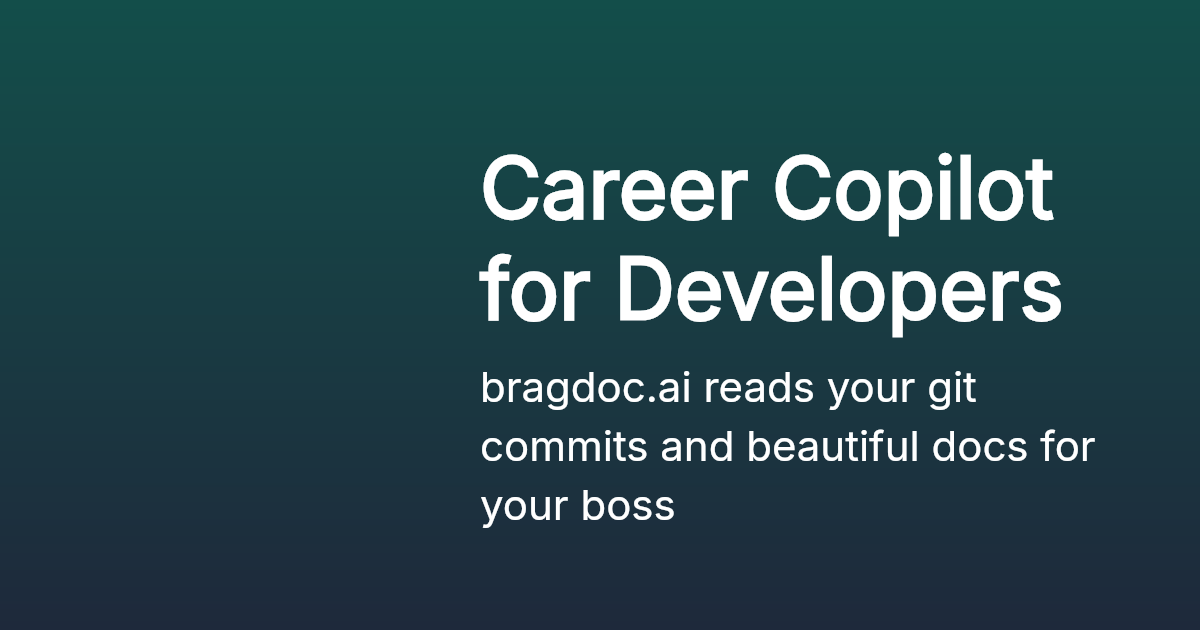
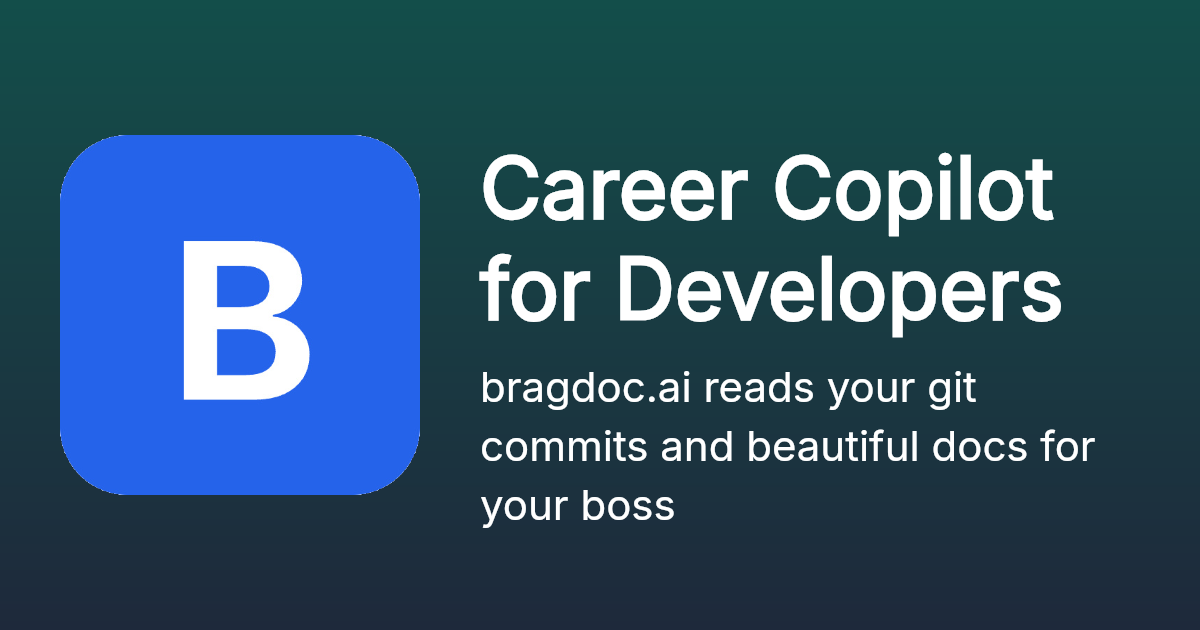
fix: tweaked a couple of examples (#24)

Changed region(s): [[0.0308, 0.2111, 0.37, 0.7841]]

diff --git a/src/components/ThumbnailGenerator.tsx b/src/components/ThumbnailGenerator.tsx
@@ -42,7 +42,7 @@ function getDefaultImageUrl(elementId: string): string | undefined {
     return '/frameit-icon.png'
   }
 
-  // For main-image or other elements, return undefined (user must upload)
+  // For `main` or other elements, return undefined (user must upload)
   return undefined
 }
 
@@ -105,7 +105,7 @@ function getDefaultConfig(): ThumbnailConfig {
     ],
     imageElements: [
       { id: 'logo', url: getDefaultImageUrl('logo'), opacity: 1.0, scale: 100 },
-      { id: 'main-image', url: '/default-photo.jpg', opacity: 1.0, scale: 100 },
+      { id: 'main', url: '/default-photo.jpg', opacity: 1.0, scale: 100 },
     ],
   }
 }

diff --git a/src/lib/constants/layouts.ts b/src/lib/constants/layouts.ts
@@ -137,7 +137,7 @@ export const LAYOUTS: LayoutDefinition[] = [
     elements: [
       // Main photo - fills entire canvas
       {
-        id: 'main-image',
+        id: 'main',
         type: 'image',
         name: 'Main Image',
         position: { x: '50%', y: '50%', anchor: 'center' },
@@ -373,7 +373,7 @@ export const LAYOUTS: LayoutDefinition[] = [
     description: 'Product feature highlight with icon and right-aligned description',
     elements: [
       {
-        id: 'main-image',
+        id: 'main',
         type: 'image',
         position: { x: '20%', y: '50%', anchor: 'center' },
         sizing: { maxWidth: '30%' },

diff --git a/src/lib/example-configs.ts b/src/lib/example-configs.ts
@@ -168,7 +168,7 @@ export const EXAMPLE_CONFIGS: ExampleConfig[] = [
         { id: 'subtitle', content: 'bragdoc.ai reads your git commits and beautiful docs for your boss', color: '#ffffff' },
       ],
       imageElements: [
-        { id: 'icon', url: '/frameit-icon.png', opacity: 1.0, scale: 100 },
+        { id: 'main', url: '/bragdoc-icon.png', opacity: 1.0, scale: 100 },
       ],
     },
   },

diff --git a/test-og-examples.ts b/test-og-examples.ts
@@ -14,6 +14,7 @@ import { getAllExamples, type ExampleConfig } from './src/lib/example-configs.js
 
 // Configuration
 const HOST = 'http://localhost:3000'  // Main app server
+// const HOST = 'https://frameit.dev'  // prod
 const STATIC_SERVER_PORT = 3001        // Static file server for test assets
 const STATIC_HOST = `http://localhost:${STATIC_SERVER_PORT}`
 const API_OUTPUT_DIR = './layouts/api'

diff --git a/src/lib/api-types.ts b/src/lib/api-types.ts
@@ -47,7 +47,7 @@ export interface TextElementParam {
  * Image element parameter (for POST requests)
  */
 export interface ImageElementParam {
-  /** Element ID (e.g., 'logo', 'main-image') */
+  /** Element ID (e.g., 'logo', 'main') */
   id: string
   /** Optional image URL */
   url?: string

diff --git a/.claude/commands/reproduce-image.md b/.claude/commands/reproduce-image.md
@@ -111,7 +111,7 @@ Now create a brand new layout in `/Users/ed/Code/thumbnail-generator/src/lib/con
 - Image element IDs determine default assets:
   - `'logo'` → `/frameit-logo.png` (wide horizontal logo with text)
   - `'icon'` → `/frameit-icon.png` (square icon without text)
-  - `'main-image'` → no default (user must upload)
+  - `'main'` → no default (user must upload)
 - Use Inter font family for all text
 
 ### 5. Create Example Configuration
